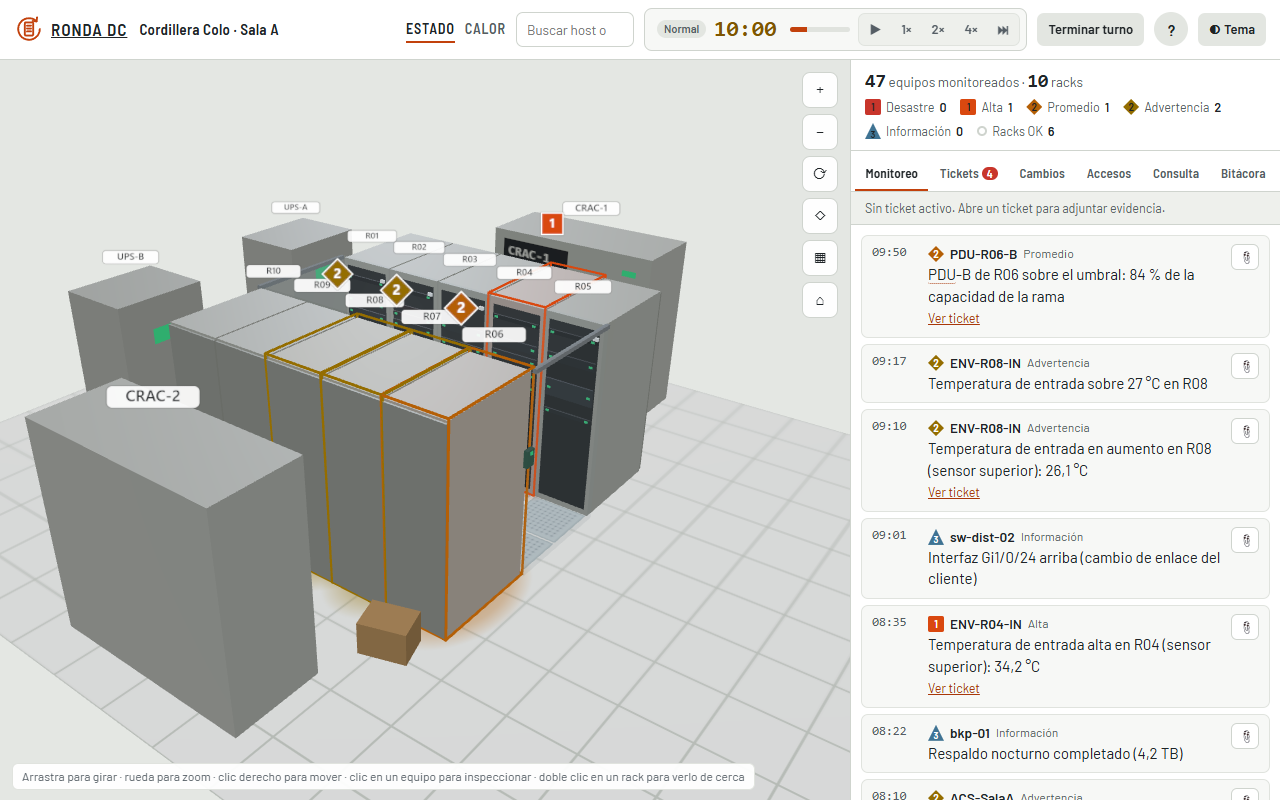
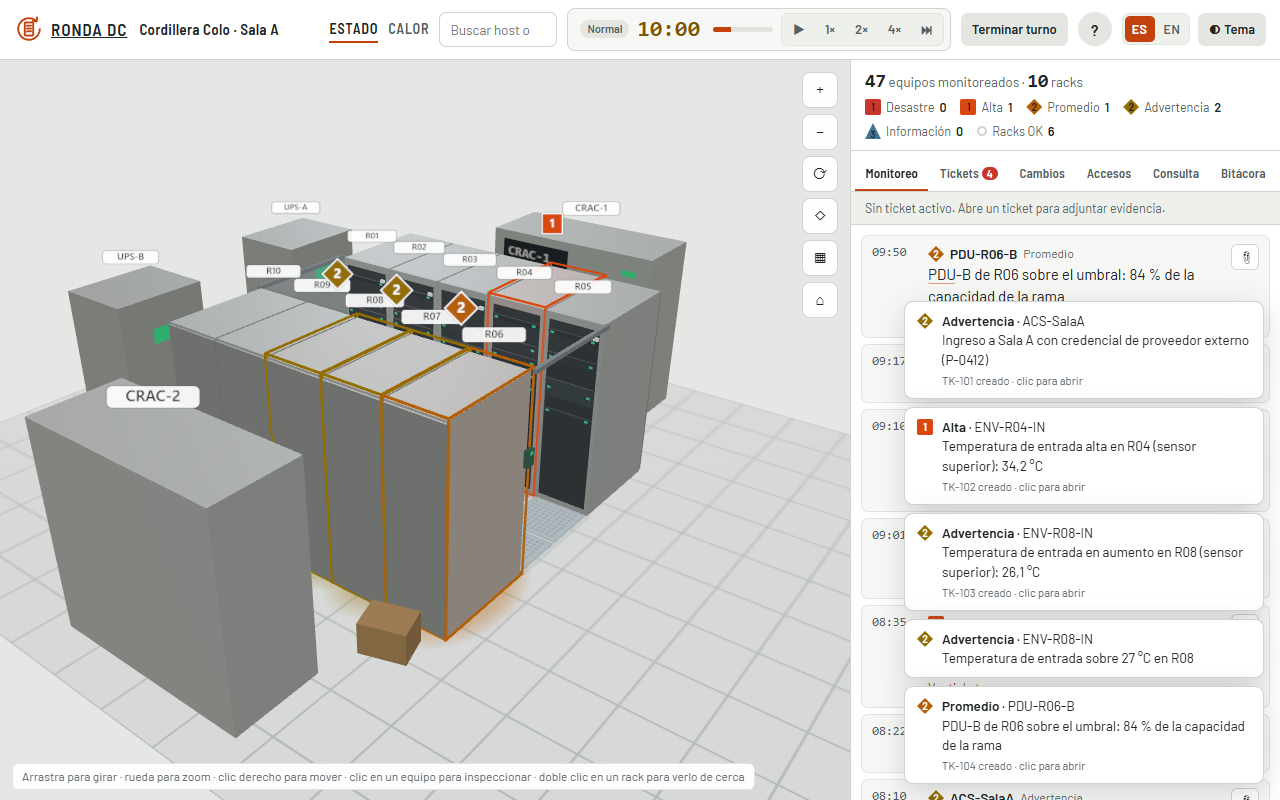
v0.5.0: documentación, capturas y versión
- README: sección Demo (controles, kiosco y cómo grabar el video de
  1920 × 1080 con Recortes, Xbox Game Bar u OBS), GIF de la demo, captura en
  inglés, idiomas y `npm run capturas`; misma información en la sección en inglés.
- Capturas regeneradas con tools/capturas.mjs (selector ES | EN y tarjeta
  Demo disponible) y nuevas: ingles.png, demo.png y demo.gif.
- CHANGELOG 0.5.0, ROADMAP (puntos 4 y 5 hechos) y versión 0.5.0.

diff --git a/README.md b/README.md
@@ -8,13 +8,14 @@
 
 <p align="center">
   <b>Simulador 3D de un turno de operación en una sala de datacenter.</b><br>
-  Checklist de ronda, alertas, tickets, escalamiento y corrección inmediata. Un solo archivo HTML, sin servidor.
+  Checklist de ronda, alertas, tickets, escalamiento, corrección inmediata y una demo automática. En español e inglés. Un solo archivo HTML, sin servidor.
 </p>
 
 <p align="center">
   <a href="#qué-es">Qué es</a> ·
   <a href="#qué-se-aprende">Qué se aprende</a> ·
   <a href="#cómo-se-juega">Cómo se juega</a> ·
+  <a href="#demo">Demo</a> ·
   <a href="#marco-de-referencia">Marco de referencia</a> ·
   <a href="#cómo-compilar">Cómo compilar</a> ·
   <a href="#in-english">In English</a>
@@ -29,6 +30,10 @@
 **Ronda DC** pone al estudiante en el puesto de un **operador de sala N1** durante un turno (corto, de 08:00 a 10:30, o completo, hasta las 15:00) en *Cordillera Colo · Sala A*, un colocation ficticio en Santiago con 10 racks de tres clientes, dos CRAC, dos UPS, detección de fugas y control de acceso.
 
 Las alertas de monitoreo abren tickets. El estudiante recorre la sala en 3D, revisa cada rack U por U, junta evidencia y decide: qué es un problema real, qué prioridad tiene, qué hacer y a quién escalar. Al cerrar cada ticket recibe la corrección al momento, con lo esperado, el porqué y la norma que lo respalda. Si se demora o toma una acción crítica, la sala empeora.
+
+La interfaz, el escenario, el glosario y el informe exportado están en **español e inglés**. El idioma inicial sale del navegador y se puede cambiar en cualquier momento desde la portada o la cabecera (ES | EN) sin perder el turno en curso: los tickets abiertos, la bitácora y la corrección cambian de idioma al momento.
+
+![Versión en inglés: ticket TK-102 «Rising temperature in R08» y el inspector del rack con decimales con punto](docs/capturas/ingles.png)
 
 **Para quién:** estudiantes de técnico y de ingeniería en redes, infraestructura y soporte TI, y docentes que buscan una actividad práctica de operación de datacenter sin necesidad de una sala real. También sirve como repaso para quien empieza a trabajar en un NOC o en un colocation.
 
@@ -67,7 +72,7 @@ Antes del turno (o como actividad corta de clase), el estudiante recorre la sala
 
 | Vista de detalle del rack | Corrección de un ticket |
 |---|---|
-| ![Trasera del rack R06: las dos fuentes de k8s-n7 van a la PDU-B](docs/capturas/rack.png) | ![Corrección del ticket TK-101 con 95 de 100 puntos y la explicación](docs/capturas/correccion.png) |
+| ![Trasera del rack R06: las dos fuentes de k8s-n7 van a la PDU-B](docs/capturas/rack.png) | ![Corrección del ticket TK-101 con 85 de 100 puntos, lo que faltó y la explicación](docs/capturas/correccion.png) |
 
 <p align="center">
   <img src="docs/capturas/transicion.gif" alt="Transición continua: la cámara entra al rack R06, lo rodea hasta la trasera y vuelve a la sala" width="640"><br>
@@ -84,7 +89,30 @@ Cada modo se puede enlazar directamente: [`#turno/normal/corto`](https://nicsanc
 |---|---|---|
 | **Turno** | Disponible | Corto (08:00–10:30, 4 eventos, unos 12 min) o completo (08:00–15:00, 8 eventos), con acciones en sala, corrección por ticket e informe final. Tres niveles: **Guiado** (tutor paso a paso, tutorial de la interfaz, pistas y sin presión de tiempo), **Normal** (pistas limitadas que cuestan puntos) y **Experto** (sin pistas, el reloj no se detiene al cerrar y hay eventos que coinciden). |
 | **Checklist de ronda** | Disponible | Ronda de inicio de turno de 10 a 15 min: 10 ítems verificables en la sala (temperatura, CRAC, UPS, redundancia A/B, paneles ciegos, puertas, VESDA y extintores, limpieza, control de acceso, piso técnico) con cinco hallazgos plantados, puntaje propio e informe. Se juega sola o antes de un turno, en los tres niveles. |
-| **Demo** | Próximamente | Reproducción automática con un operador que inspecciona, adjunta evidencia y cierra los tickets, con subtítulos. Pensado para ferias y clases. |
+| **Demo** | Disponible | Un operador automático juega el turno corto en Normal: recorre la sala, inspecciona, entra a la vista de detalle del rack, actúa en sala, adjunta evidencia y cierra los tickets, con subtítulos que explican qué hace y por qué. Unos 4–5 minutos, con variantes para ferias (`#demo/kiosco`) y para grabar un video (`#demo/grabar`). |
+
+### Demo
+
+<p align="center">
+  <img src="docs/capturas/demo.gif" alt="Demo: el operador abre el ticket de R08, entra a la vista de detalle del rack, adjunta evidencia, instala los paneles ciegos y cierra el ticket con 100 puntos" width="640"><br>
+  <sub>Demo del evento de R08 (paneles ciegos faltantes), a 2×.</sub>
+</p>
+
+[`#demo`](https://nicsanchezr.github.io/ronda-dc/#demo) juega el turno corto en Normal con la misma partida perfecta que usan las pruebas automáticas (`src/perfect-run.js`): recorre la sala con la cámara, inspecciona, entra a la vista de detalle del rack, ejecuta acciones en sala, adjunta evidencia, completa el formulario de cierre y muestra cada corrección. Los subtítulos, en el idioma activo, explican qué hace el operador y por qué, con los términos del glosario marcados.
+
+- **Controles** (abajo, discretos): pausa, siguiente paso, velocidad (1×, 1,5×, 2×) y salir. Con el teclado: **Espacio** pausa, **→** pasa al siguiente paso y **Esc** sale.
+- **Al tocar la sala o el panel**, la demo se pausa y ofrece **«Seguir viendo»** o **«Jugar yo desde aquí»**: la partida sigue tal como está, ahora en manos del estudiante.
+- **Kiosco** ([`#demo/kiosco`](https://nicsanchezr.github.io/ronda-dc/#demo/kiosco)): sin controles, en bucle, y vuelve al inicio tras 60 s sin interacción. Pide pantalla completa al primer toque; para dejarlo fijo en una feria, abre el navegador en modo kiosco, por ejemplo `msedge --kiosk "https://nicsanchezr.github.io/ronda-dc/#demo/kiosco" --edge-kiosk-type=fullscreen` (o pulsa **F11**).
+- **Grabación** ([`#demo/grabar`](https://nicsanchezr.github.io/ronda-dc/#demo/grabar)): sin cursor ni controles y con subtítulos grandes, pensado para un video de 1920 × 1080 (por ejemplo, para LinkedIn). Parte con la portada unos segundos y luego entra a la sala.
+
+**Cómo grabar el video (1920 × 1080):**
+
+1. Usa una pantalla de 1920 × 1080 (o la resolución de Windows en 1920 × 1080) y abre `#demo/grabar` en Edge o Chrome. Pulsa **F11** para la pantalla completa y recarga la página (**F5**) para que la demo empiece desde la portada.
+2. Graba con una de estas opciones:
+   - **Herramienta Recortes de Windows 11:** abre Recortes, elige **Grabar**, selecciona toda la pantalla y pulsa **Iniciar**.
+   - **Xbox Game Bar:** **Win + Alt + R** inicia y detiene la grabación de la ventana activa (el video queda en *Vídeos › Capturas*).
+   - **OBS Studio:** fuente **Captura de pantalla** (o **Captura de ventana** del navegador), *Ajustes › Vídeo* con resolución base y de salida 1920 × 1080 a 30 o 60 fps, y formato MP4.
+3. La demo dura unos 4–5 minutos y termina en la pantalla de fin de turno; recorta el inicio y el final con el editor que prefieras. Para cambiar el idioma de los subtítulos, elige **ES** o **EN** antes de recargar.
 
 **Temas:** *Gris de sala* (por defecto, pensado para proyector) y *Alto rendimiento*, que sigue el criterio ISA-101 de pantallas de operación: todo en grises y color solo para lo anormal. Ambos en claro y oscuro (o según el sistema), con contraste WCAG AA verificado.
 
@@ -104,9 +132,9 @@ También se citan Uptime Institute Tiers (redundancia), IEEE 1188 (baterías) y 
 
 ## Stack y privacidad
 
-- **Un solo archivo HTML** (`dist/index.html`, unos 900 KB): JavaScript, CSS, tipografías y escena 3D incluidos.
+- **Un solo archivo HTML** (`dist/index.html`, alrededor de 1 MB): JavaScript, CSS, tipografías y escena 3D incluidos.
 - **Sin servidor y sin peticiones externas:** no carga nada de Internet, no tiene analítica ni cookies. Funciona sin conexión.
-- Lo único que se guarda es local, en el navegador (`localStorage`): el último puntaje, el nivel, la duración y el tema elegidos.
+- Lo único que se guarda es local, en el navegador (`localStorage`): el último puntaje y el nivel, la duración, el idioma y el tema elegidos.
 - [Three.js](https://threejs.org) 0.160 para la escena 3D y [esbuild](https://esbuild.github.io) para empaquetar.
 - Empresa, personas, clientes, equipos y modelos son **ficticios**.
 
@@ -119,9 +147,12 @@ npm install
 npm run build        # genera dist/index.html
 npm run contrast     # verifica el contraste WCAG AA de los temas
 npm test             # compila y corre las pruebas de Playwright (Edge en Windows, Chromium en CI)
+npm run capturas     # regenera las capturas de docs/capturas/ y el GIF de la demo (Edge en Windows)
 ```
 
-Abre `dist/index.html` directamente en el navegador. En cada push a `main`, GitHub Actions corre las pruebas (partida perfecta, impactos, nivel Guiado, hallazgo proactivo, acción declarada sin hacer, turno corto y ⏭, checklist de ronda, glosario, temas y transiciones) y, solo si pasan, publica `dist/` en GitHub Pages.
+Abre `dist/index.html` directamente en el navegador. En cada push a `main`, GitHub Actions corre las pruebas (partida perfecta en español y en inglés, impactos, nivel Guiado, hallazgo proactivo, acción declarada sin hacer, turno corto y ⏭, checklist de ronda, glosario, diccionarios sin claves faltantes, cambio de idioma en vivo, demo completa en ambos idiomas, temas y transiciones) y, solo si pasan, publica `dist/` en GitHub Pages.
+
+**Traducir:** los textos de la interfaz están en `src/i18n/<idioma>.js`, los del escenario en `src/i18n/escenario.<idioma>.js` y el glosario en `src/i18n/glosario.<idioma>.js`. Una prueba falla si falta una clave, un elemento de lista o una `{variable}` en alguno de los idiomas.
 
 Estructura y convenciones del código: [`.claude/CLAUDE.md`](.claude/CLAUDE.md). Próximas mejoras: [`docs/ROADMAP.md`](docs/ROADMAP.md). Historial: [`CHANGELOG.md`](CHANGELOG.md).
 
@@ -142,6 +173,7 @@ Creado por **Nicolás Sánchez Rodríguez**. Inspirado en el enfoque de [Blue-Jr
   <a href="#what-you-learn">What you learn</a> ·
   <a href="#how-to-play">How to play</a> ·
   <a href="#modes-1">Modes</a> ·
+  <a href="#demo-1">Demo</a> ·
   <a href="#reference-framework">Reference framework</a> ·
   <a href="#how-to-build">How to build</a>
 </p>
@@ -189,7 +221,32 @@ Every mode can be linked directly: [`#turno/normal/corto`](https://nicsanchezr.g
 |---|---|
 | **Shift** | Short (08:00–10:30, 4 events, about 12 min) or full (08:00–15:00, 8 events), with hands-on actions, per-ticket grading and a final report. Three levels: **Guided** (step-by-step tutor, interface tutorial, hints and no time pressure), **Normal** (limited hints that cost points) and **Expert** (no hints, the clock keeps running while you close tickets and some events overlap). |
 | **Rounds checklist** | Start-of-shift rounds of 10 to 15 minutes: 10 checkpoints (temperature, CRACs, UPSs, A/B redundancy, blanking panels, doors, VESDA and extinguishers, housekeeping, access control, raised floor) with five planted findings, their own score and a report. Play it on its own or before a shift, at any of the three levels. |
-| **Demo** | Automatic playback with an operator who inspects, attaches evidence and closes the tickets, with captions. Built for fairs and classes. |
+| **Demo** | An automatic operator plays the short shift at Normal level: walks the data hall, inspects, opens the rack close-up, acts on the floor, attaches evidence and closes the tickets, with captions explaining what they do and why. About 4–5 minutes, with variants for fairs (`#demo/kiosco`) and for recording a video (`#demo/grabar`). |
+
+### Demo
+
+<p align="center">
+  <img src="docs/capturas/demo.gif" alt="Demo: the operator opens the R08 ticket, enters the rack close-up, attaches evidence, installs the blanking panels and closes the ticket with 100 points" width="640"><br>
+  <sub>Demo of the R08 event (missing blanking panels), at 2× (captions in Spanish; switch to EN for English captions).</sub>
+</p>
+
+![Demo with captions: the rack close-up of R08 showing the gap between U30 and U34](docs/capturas/demo.png)
+
+[`#demo`](https://nicsanchezr.github.io/ronda-dc/#demo) plays the short shift at Normal level with the same perfect game the automated tests use (`src/perfect-run.js`): the camera walks the data hall, the operator inspects, opens the rack close-up, takes actions on the floor, attaches evidence, fills in the closing form and shows each grading. Captions in the active language explain what the operator does and why, with glossary terms highlighted.
+
+- **Controls** (bottom, unobtrusive): pause, next step, speed (1×, 1.5×, 2×) and exit. Keyboard: **Space** pauses, **→** skips to the next step and **Esc** exits.
+- **Touching the data hall or the panel** pauses the demo and offers **“Keep watching”** or **“Play from here”**: the shift carries on exactly as it is, now in the student’s hands.
+- **Kiosk** ([`#demo/kiosco`](https://nicsanchezr.github.io/ronda-dc/#demo/kiosco)): no controls, loops forever and returns to the start after 60 s without interaction. It asks for full screen on the first touch; to lock it at a fair, open the browser in kiosk mode, for example `msedge --kiosk "https://nicsanchezr.github.io/ronda-dc/#demo/kiosco" --edge-kiosk-type=fullscreen` (or press **F11**).
+- **Recording** ([`#demo/grabar`](https://nicsanchezr.github.io/ronda-dc/#demo/grabar)): no cursor or controls and large captions, designed for a 1920 × 1080 video (for example, for LinkedIn). It opens on the home page for a few seconds and then flies into the data hall.
+
+**How to record the video (1920 × 1080):**
+
+1. Use a 1920 × 1080 display (or set Windows to 1920 × 1080) and open `#demo/grabar` in Edge or Chrome. Press **F11** for full screen and reload (**F5**) so the demo starts from the home page.
+2. Record with one of these:
+   - **Windows 11 Snipping Tool:** open it, choose **Record**, select the whole screen and press **Start**.
+   - **Xbox Game Bar:** **Win + Alt + R** starts and stops recording the active window (videos go to *Videos › Captures*).
+   - **OBS Studio:** a **Display Capture** source (or **Window Capture** of the browser), *Settings › Video* with base and output resolution at 1920 × 1080 and 30 or 60 fps, MP4 format.
+3. The demo takes about 4–5 minutes and ends on the end-of-shift screen; trim the start and end in any editor. To switch the caption language, choose **ES** or **EN** before reloading.
 
 **Themes:** *Floor grey* (default, designed for projectors) and *High performance*, which follows the ISA-101 approach to operator displays: everything in greys, with color reserved for abnormal conditions. Both come in light and dark (or follow the system), with WCAG AA contrast verified.
 
@@ -224,9 +281,10 @@ npm install
 npm run build        # generates dist/index.html
 npm run contrast     # checks WCAG AA contrast for the themes
 npm test             # builds and runs the Playwright tests (Edge on Windows, Chromium in CI)
+npm run capturas     # regenerates the docs/capturas/ screenshots and the demo GIF (Edge on Windows)
 ```
 
-Open `dist/index.html` directly in the browser. On every push to `main`, GitHub Actions runs the tests (perfect game in Spanish and English, impacts, Guided level, proactive finding, action declared but not done, short shift and ⏭, rounds checklist, glossary, dictionaries with no missing keys, live language switch, themes and transitions) and, only if they pass, publishes `dist/` to GitHub Pages.
+Open `dist/index.html` directly in the browser. On every push to `main`, GitHub Actions runs the tests (perfect game in Spanish and English, impacts, Guided level, proactive finding, action declared but not done, short shift and ⏭, rounds checklist, glossary, dictionaries with no missing keys, live language switch, the full demo in both languages, themes and transitions) and, only if they pass, publishes `dist/` to GitHub Pages.
 
 **Translating:** interface texts live in `src/i18n/<lang>.js`, scenario texts in `src/i18n/escenario.<lang>.js` and the glossary in `src/i18n/glosario.<lang>.js`. A test fails if any key, list item or `{placeholder}` is missing in one of the languages.
 

diff --git a/docs/ROADMAP.md b/docs/ROADMAP.md
@@ -1,6 +1,6 @@
 # Roadmap · Ronda DC
 
-> Estado al 15-11-2026 (v0.4.0): hechos los puntos 0, 1, 2 y 3, y en parte el 5; además, acciones en sala, niveles con tutor, glosario, turno corto y pruebas automáticas. Siguen el 4 (Demo), el selector ES/EN y los nuevos puntos 6 (escenarios propios cargables), 7 (desafíos) y 8 (editor de escenarios). Historial en [`CHANGELOG.md`](../CHANGELOG.md); contexto del código en [`.claude/CLAUDE.md`](../.claude/CLAUDE.md).
+> Estado al 15-11-2026 (v0.5.0): hechos los puntos 0 a 5; además, acciones en sala, niveles con tutor, glosario, turno corto, versión en inglés y pruebas automáticas. Siguen los puntos 6 (escenarios propios cargables), 7 (desafíos) y 8 (editor de escenarios). Historial en [`CHANGELOG.md`](../CHANGELOG.md); contexto del código en [`.claude/CLAUDE.md`](../.claude/CLAUDE.md).
 
 ## 0. Cambio de nombre a Ronda DC ✅
 - Reemplazar "Turno de Sala" por "Ronda DC" en el título, la cabecera, la portada, el informe Markdown, la clave de localStorage (`ronda-dc-ultimo`, migrando la anterior si existe), package.json y README.
@@ -28,12 +28,13 @@ Mejoras pedidas por Nicolás (15-11-2026), en orden sugerido.
 - Cada ítem se marca como OK, observación o falla, con evidencia tomada de la inspección 3D. Algunos ítems tienen hallazgos plantados.
 - Se puede usar sola, como actividad corta de clase, o al inicio del turno, con puntaje propio y exportación.
 
-## 4. Modo demo (funcionamiento automático)
+## 4. Modo demo (funcionamiento automático) ✅
+- Hecho en v0.5: `#demo` juega el turno corto en Normal con la partida perfecta (la misma de las pruebas), con cámara, vista de detalle del rack, acciones en sala, formulario de cierre y corrección, y subtítulos en el idioma activo. Controles discretos, pausa al tocar con «Seguir viendo» / «Jugar yo desde aquí», `#demo/kiosco` (bucle, reinicio tras 60 s sin interacción) y `#demo/grabar` (sin cursor ni controles, subtítulos grandes).
 - Reproducción automática del turno: la cámara recorre la sala, se disparan los eventos, un "operador fantasma" inspecciona, adjunta evidencia y cierra tickets con las respuestas correctas, con subtítulos que explican cada paso.
 - Pensado para mostrar el simulador en ferias, clases o LinkedIn (modo kiosco con reinicio en bucle, se detiene al tocar).
 
-## 5. Landing más cuidada (en parte ✅)
-- Hecho: portada con escena 3D de fondo, tres tarjetas de modo, rutas por hash, briefing y ayuda «?». Pendiente: selector de idioma ES/EN.
+## 5. Landing más cuidada ✅
+- Hecho: portada con escena 3D de fondo, tres tarjetas de modo, rutas por hash, briefing y ayuda «?». En v0.5, selector ES | EN (portada y cabecera) con la interfaz y el escenario completos en inglés, cambio de idioma en vivo y formatos por idioma.
 - Portada con presentación (qué es, para quién, qué aprende), vista 3D animada de fondo o captura en vivo, botones "Comenzar turno", "Ver demo" y "Checklist de ronda", competencias que se trabajan, marco normativo, créditos y licencia.
 - Selector de idioma ES/EN (el diccionario del punto 0 lo permite); traducir primero la interfaz y luego los escenarios.
 
@@ -56,5 +57,6 @@ Mejoras pedidas por Nicolás (15-11-2026), en orden sugerido.
 
 ## Después
 - Más turnos (semana completa), personalización por asignatura (AAY1107 Monitoreo de Redes, Comunicaciones Corporativas, etc.).
-- ~~Repositorio público en GitHub con GitHub Pages y licencia~~ (v0.2) y ~~CI con Playwright~~ (v0.3). Pendiente: regenerar automáticamente las capturas de `docs/capturas/`.
+- ~~Repositorio público en GitHub con GitHub Pages y licencia~~ (v0.2), ~~CI con Playwright~~ (v0.3) y ~~regenerar las capturas de `docs/capturas/`~~ (v0.5, `npm run capturas`).
+- Escenarios propios (punto 6) en ambos idiomas: el formato debería admitir textos por idioma, como `src/i18n/escenario.<idioma>.js`.
 - Hecho en v0.3 (fuera del orden original): acciones en sala, niveles Guiado/Normal/Experto con tutor, pistas y glosario.

diff --git a/CHANGELOG.md b/CHANGELOG.md
@@ -2,6 +2,27 @@
 
 Formato basado en [Keep a Changelog](https://keepachangelog.com/es-ES/1.1.0/). Versiones según [SemVer](https://semver.org/lang/es/).
 
+## [0.5.0] · 2026-11-15
+
+### Agregado
+- **Versión en inglés.** Selector **ES | EN** en la portada y en la cabecera; el idioma inicial sale del navegador (`navigator.language`) y la elección se guarda en `localStorage`. Todo está traducido: interfaz, eventos, observaciones de la sala, tutor, pistas, preguntas de reflexión, runbooks, glosario, checklist, calendario, accesos, mensajes de corrección e informe Markdown. En inglés se usa la terminología estándar del rubro (CRAC, PDU, blanking panel, cold aisle containment, remote hands, change request, shift handover, true/false positive); los nombres de personas y empresas ficticias se mantienen.
+- **Cambio de idioma en vivo:** cambiar a mitad de una partida no reinicia nada. Los tickets abiertos, la bitácora, la evidencia adjunta y la corrección cambian de idioma al momento (lo escrito por el estudiante queda tal cual).
+- **Formatos según el idioma:** decimales (22,4 °C / 22.4 °C), porcentajes (84 % / 84%) y fechas (15 de noviembre de 2026 / November 15, 2026).
+- **Modo Demo** (`#demo`): un operador automático juega el turno corto en Normal con la partida perfecta. Recorre la sala con la cámara, inspecciona, entra a la vista de detalle del rack, ejecuta acciones en sala, adjunta evidencia, completa el formulario de cierre y muestra cada corrección, con subtítulos en el idioma activo que explican qué hace y por qué (con los términos del glosario). Dura unos 4–5 minutos. Controles discretos (pausa, siguiente paso, velocidad 1× / 1,5× / 2× y salir; también con Espacio, → y Esc). Al tocar la sala o el panel, la demo se pausa y ofrece «Seguir viendo» o «Jugar yo desde aquí» (la partida sigue tal como está).
+- **Modo kiosco** (`#demo/kiosco`): pantalla completa, sin controles, en bucle; vuelve al inicio tras 60 s sin interacción. Pensado para ferias.
+- **Modo grabación** (`#demo/grabar`): sin cursor ni controles y con subtítulos grandes, para grabar un video de 1920 × 1080.
+- `src/perfect-run.js`: la partida perfecta como datos. La ejecutan las pruebas y la Demo, así que la Demo no puede quedar desalineada con lo que se corrige.
+- `tools/capturas.mjs` (`npm run capturas`): regenera las capturas de `docs/capturas/`, incluido el GIF de la demo.
+- Pruebas: diccionarios sin claves faltantes (también listas y `{variables}`), idioma inicial, cambio de idioma a mitad de turno, partida perfecta en inglés, turno corto perfecto, demo completa en español y en inglés (4 tickets, 400 de 400), pausa al tocar la sala y modos kiosco y grabación.
+
+### Cambiado
+- Los textos de `scenario.js` y `sim.js` pasan al diccionario (`src/i18n/escenario.<idioma>.js` y grupos `sim`/`insp`); la bitácora, los impactos y las alertas del sistema se guardan como mensajes que se traducen al mostrarlos.
+- La tarjeta Demo de la portada pasa a «Disponible», con el botón «Ver demo».
+- README: la sección en inglés es una versión completa.
+
+### Corregido
+- En el turno corto, la recirculación de R08 no aparecía como observación hasta las 08:40, después de la alerta de las 08:35: E3 no podía obtener la evidencia completa. Ahora sigue el calendario del turno.
+
 ## [0.4.0] · 2026-11-15
 
 ### Agregado
